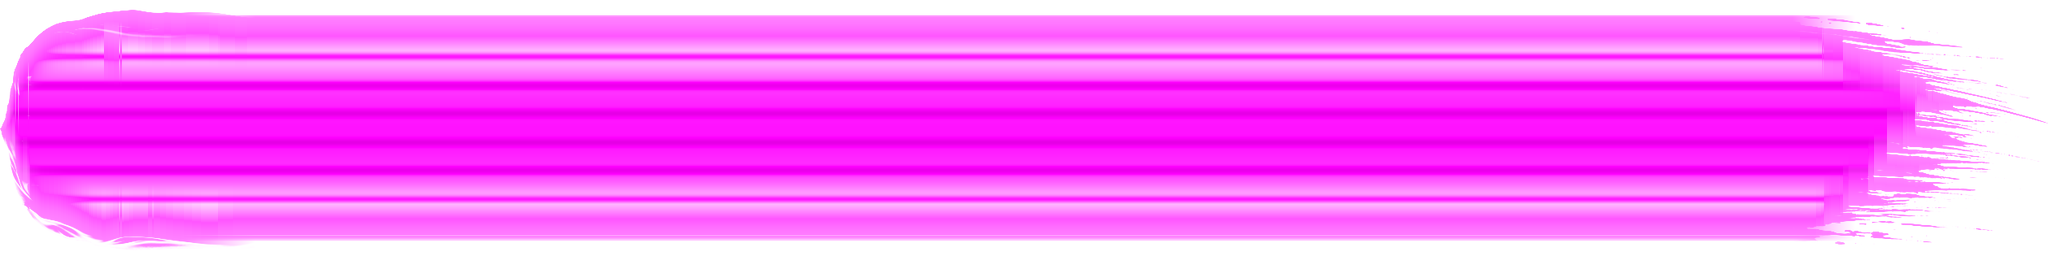
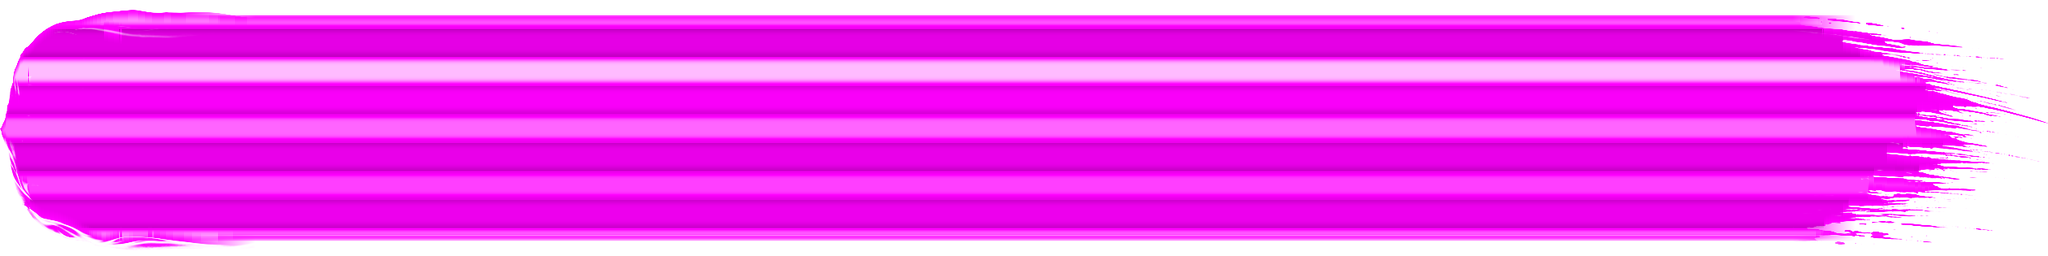
fix(brush): 납작붓 가는 획 두 겹(검은 심+흰 테) 제거 · 2D 곧은 구간 사각 조각
- bold 띠: 원본 줄 밝기 대신 고정 시드 9가닥 균일 배치, 흰 테 없음(가장자리만 골 제거 12줄)
- Canvas2D: 꺾임 0.12rad 미만 구간은 1.5px 겹친 사각 조각 — 1px 사다리꼴 클립 AA 겹침으로 회색·물결무늬

diff --git a/src/engine/core/Canvas2DBackend.ts b/src/engine/core/Canvas2DBackend.ts
@@ -254,6 +254,26 @@ export class Canvas2DBackend implements RendererBackend {
         // 이음 띠 — GL 과 같은 사다리꼴(앞 단면 → 이 단면)을 삼각형 두 개로 나눠 각각 정확한 아핀 매핑.
         // 평행사변형 근사는 급한 꺾임(부채꼴 이음)에서 조각 사이가 비어 붓털이 부채살처럼 삐져나왔다(2026-10-08 실측).
         const src = this.sliceSource(dab.tip ?? this.ctx.tip, color, Math.max(s, seg.size));
+        let turn = dab.rotation - seg.rot;
+        turn = Math.abs(Math.atan2(Math.sin(turn), Math.cos(turn)));
+        if (turn < 0.12) {
+          // 거의 곧은 구간 = 진행 방향으로 1.5px 겹친 사각 조각. 1px 남짓한 사다리꼴을 클립하면 경계마다
+          // 반투명 안티에일리어싱이 겹쳐 덜 칠해져 회색·물결무늬가 났다(2026-10-08 ×3 확대 실측).
+          const ax = dab.x - seg.x;
+          const ay = dab.y - seg.y;
+          const al = Math.hypot(ax, ay);
+          const ext = 1.5;
+          const dupp = (dab.slice.u1 - dab.slice.u0) / Math.max(1e-3, al);
+          const u0 = Math.max(0, dab.slice.u0 - ext * dupp);
+          const u1 = Math.min(1, dab.slice.u1 + ext * dupp);
+          const hs = (s + seg.size) / 2;
+          target.translate((seg.x + dab.x) / 2, (seg.y + dab.y) / 2);
+          target.rotate(al > 1e-3 ? Math.atan2(ay, ax) : dab.rotation);
+          const len = al + 2 * ext;
+          target.drawImage(src, u0 * src.width, 0, Math.max(1, (u1 - u0) * src.width), src.height, -len / 2, -hs / 2, len, hs);
+          target.restore();
+          continue;
+        }
         const n0x = -Math.sin(seg.rot) * seg.size * 0.5;
         const n0y = Math.cos(seg.rot) * seg.size * 0.5;
         const n1x = -Math.sin(dab.rotation) * s * 0.5;

diff --git a/scripts/process-ribbon.py b/scripts/process-ribbon.py
@@ -143,40 +143,29 @@ def build(src_path: Path):
     # 줄어들면 가는 결이 평균으로 사라진다(유화붓 bristle-bold 와 같은 이유)
     bands = 9
     edges = np.linspace(0, H, bands + 1).astype(int)
-    # 몸통의 줄별 프로필 하나를 세로로 흐려 굵은 가닥으로 묶고, 획 방향으로는 일정하게 깐다.
-    # (띠별 열 중앙값 = 벽돌 무늬, 2D 흐림 = 얼룩 — 2026-10-08 시각 확인. 시작·끝 모양은 알파가 만든다)
-    prof = np.median(L[:, START[1] : BODY[1]], 1)
-    sig = H / bands / 3
-    kk = np.arange(-int(3 * sig), int(3 * sig) + 1)
-    ker = np.exp(-(kk**2) / (2 * sig**2))
-    ker /= ker.sum()
-    prof = np.convolve(np.pad(prof, len(kk) // 2, mode="edge"), ker, mode="valid")
-    # 원본 조명의 넓은 명암(아래쪽 절반이 통째로 어두움 → 가는 획이 원통처럼 보임)을 빼고 가닥 무늬만 남긴다
-    s2 = 40
-    k2 = np.arange(-3 * s2, 3 * s2 + 1)
-    g2 = np.exp(-(k2**2) / (2 * s2**2))
-    g2 /= g2.sum()
-    trend = np.convolve(np.pad(prof, len(k2) // 2, mode="edge"), g2, mode="valid")
-    prof = prof - trend + med
-    Lb = np.repeat(prof[:, None], L.shape[1], 1)
-    # 가닥 대비를 일정하게(줄 명암 표준편차 2.5%) — 흐림·추세 제거로 얼마나 줄었든 같은 진하기로 되돌린다
-    dev = Lb[:, START[1] : BODY[1]] / med - 1
-    Lb = med * (1 + (Lb / med - 1) * (0.025 / max(1e-4, float(dev[A[:, START[1] : BODY[1]] > 0.8].std()))))
+    # 가닥 9개를 폭 전체에 고르게 — 밝기는 고정 시드 난수(가닥마다 밝음/어두움 교대 섞임), 가닥 사이는 골.
+    # 원본 줄별 밝기를 쓰면 사진 가장자리 줄만 밝아 가는 획에서 «바깥 흰 줄»로 떨어져 보였다(2026-10-08).
+    # 획 방향으로 일정해야 가는 획에서도 결이 곧게 이어진다. 시작·끝 모양은 알파가 만든다.
+    rng = np.random.default_rng(20261008)
+    levels = rng.uniform(-1, 1, bands)
+    levels[::2] = np.abs(levels[::2])  # 밝은 가닥·어두운 가닥이 번갈아 — 한쪽으로 쏠리지 않게
+    levels[1::2] = -np.abs(levels[1::2])
     yy = np.arange(H)[:, None]
+    band_of = np.minimum(bands - 1, (yy * bands) // H)
     groove = np.zeros_like(yy, dtype=float)
     for e in edges[1:-1]:
-        groove += np.exp(-((yy - e) ** 2) / (2 * 2.5**2))  # 가닥 사이 골
-    relb = Lb / med - 0.035 * groove
-    dev_b = (relb - 1) * STREAK_GAIN * 1.2
-    # 가는 획에선 18줄이 1px 도 안 된다 — 테두리 쪽 가닥 두 개 폭(≈56줄)까지 밝혀 «검은 테»로 안 읽히게
-    lift_b = edge_lift(A, rows=56)
-    out_bold = pack_channels(dev_b, A, lift_b)
+        groove += np.exp(-((yy - e) ** 2) / (2 * 3.0**2))  # 가닥 사이 골
+    dev_b = np.repeat(0.22 * levels[band_of] - 0.25 * groove, L.shape[1], 1)
+    # 가는 획: 테두리 흰 테 없이(rim 0) 가장자리 골만 지운다(12줄). 56줄 + 흰 테는 어두운 색에서
+    # «가운데 검은 줄 + 바깥 흰 줄» 두 겹으로 갈라져 보였다(2026-10-08 사용자 ×3 확대 지적)
+    lift_b = edge_lift(A, rows=12)
+    out_bold = pack_channels(dev_b, A, lift_b, rim=0.0)
     info = dict(angle=round(float(ang), 2), crop=[int(top), int(bot), x0, x1], start_src=[x0, x0 + s_len], body_src=[b0, b0 + p_src],
                 body_period_tex=P, reps=reps, end_src=[e0, x1], body_cov=round(float(body_cov), 3))
     return out, out_bold, info
 
 
-def pack_channels(dev: np.ndarray, A: np.ndarray, lift: np.ndarray) -> np.ndarray:
+def pack_channels(dev: np.ndarray, A: np.ndarray, lift: np.ndarray, rim: float = 0.5) -> np.ndarray:
     """
     R = 물감 명암(골만 살짝 어둡게, 하한 0.72) · G = 붓결 하이라이트(밝은 줄 → 셰이더가 흰빛을 섞는다) · B = R.
     붓결을 어두운 골로만 그리면 획 전체가 고른 색보다 어둡고 «검은 느낌»이 났다(2026-10-08 사용자 두 번째 지적).
@@ -185,7 +174,7 @@ def pack_channels(dev: np.ndarray, A: np.ndarray, lift: np.ndarray) -> np.ndarra
     r = np.clip(1 + np.minimum(dev, 0) * 0.5, 0.76, 1.0)
     g = np.clip(np.maximum(dev, 0) * 3.4, 0, 1)  # 2.5 → 3.4: 2026-10-08 «붓결 더 강하게»(4.0 은 획이 하얗게 바램)
     r = r * (1 - lift) + lift
-    g = np.maximum(g * (1 - lift), lift * 0.5)
+    g = np.maximum(g * (1 - lift), lift * rim)
     paint = A > 0.004
     R = np.where(paint, r * 255, 255.0)
     G = np.where(paint, g * 255, 128.0)  # 투명 이웃 필터링이 테두리 흰 테(0.5)와 같은 값이 되게
